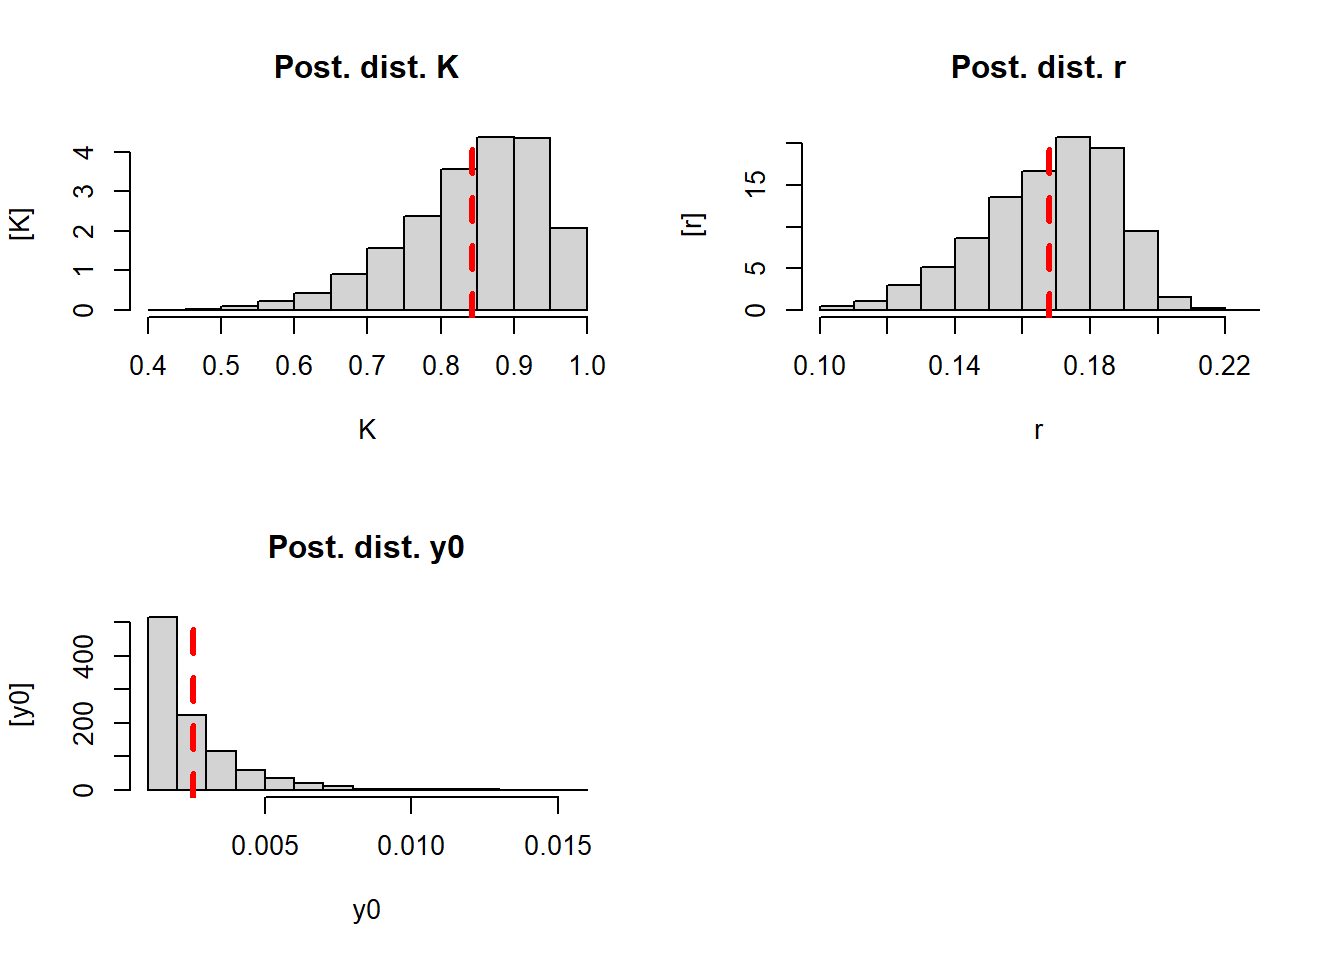
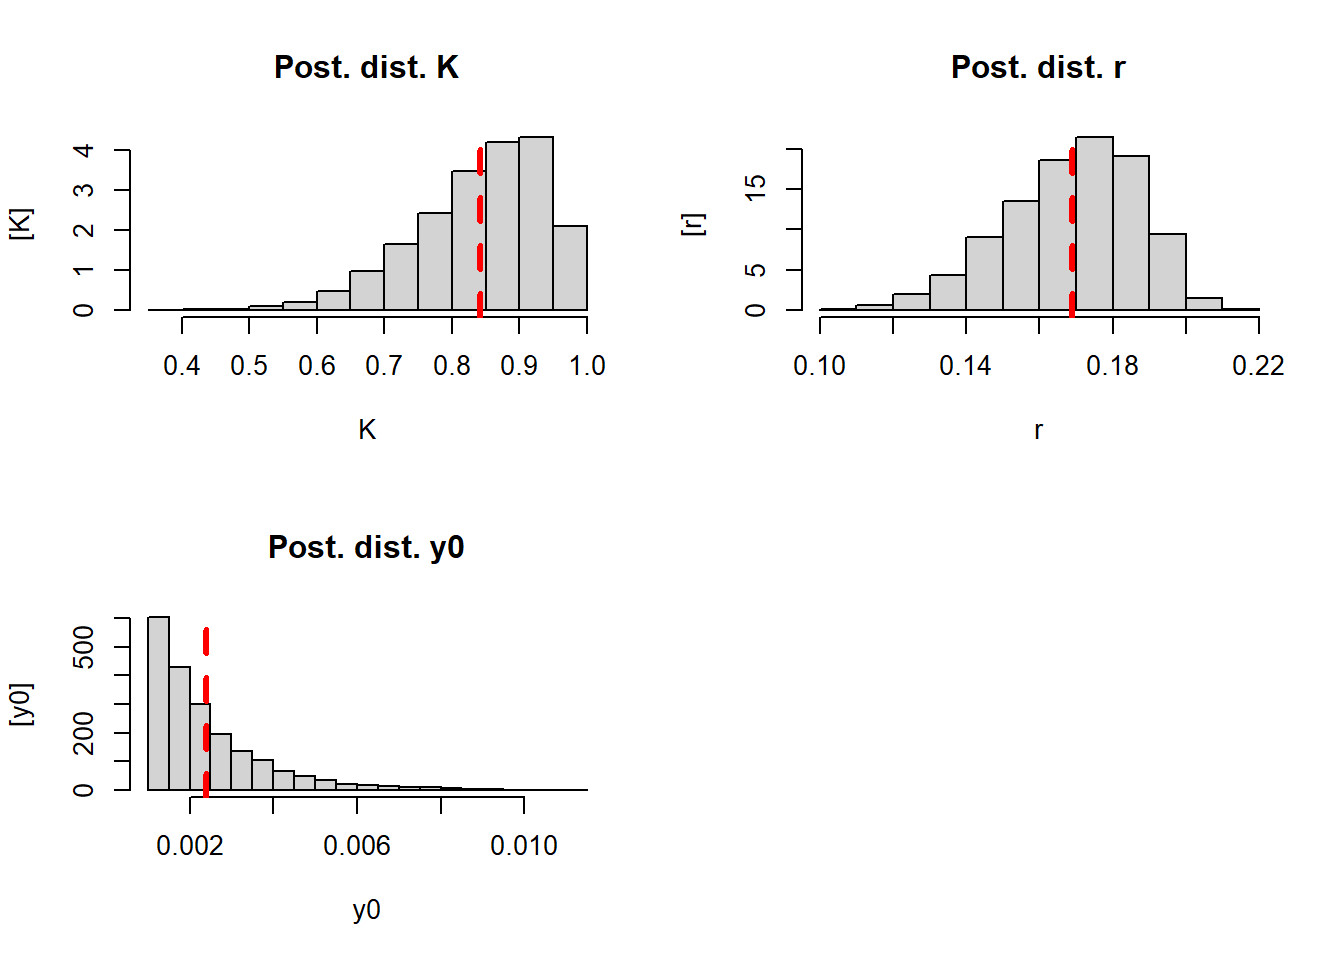
Render update 3 - Index adjustment

diff --git a/docs/index.html b/docs/index.html
@@ -147,10 +147,7 @@ code span.wa { color: #60a0b0; font-weight: bold; font-style: italic; } /* Warni
 <li><a href="./">Nonlinear Models for the Plant Sciences</a></li>
 
 <li class="divider"></li>
-<li class="chapter" data-level="" data-path="index.html"><a href="index.html"><i class="fa fa-check"></i>About</a>
-<ul>
-<li class="chapter" data-level="" data-path="index.html"><a href="index.html#motivation"><i class="fa fa-check"></i>Motivation</a></li>
-</ul></li>
+<li class="chapter" data-level="" data-path="index.html"><a href="index.html"><i class="fa fa-check"></i>About</a></li>
 <li class="chapter" data-level="" data-path="welcome-to-day-1.html"><a href="welcome-to-day-1.html"><i class="fa fa-check"></i>Welcome to day 1!</a>
 <ul>
 <li class="chapter" data-level="" data-path="welcome-to-day-1.html"><a href="welcome-to-day-1.html#linear-models"><i class="fa fa-check"></i>Linear models</a>
@@ -211,11 +208,9 @@ code span.wa { color: #60a0b0; font-weight: bold; font-style: italic; } /* Warni
 <div id="about" class="section level1 hasAnchor">
 <h1>About<a href="index.html#about" class="anchor-section" aria-label="Anchor link to header"></a></h1>
 <p>This material is the base for the workshop <strong>Nonlinear Models for the Plant Sciences</strong> taught at Kansas State University on the Spring of 2026. This workshop was develop as a collaboration from the Department of Statistics, Department of Plant Pathology and the Institute for Digital Agriculture &amp; Advanced Analytics (ID3A) as part of the <a href="https://www.k-state.edu/engagement/innovation-and-partnerships/interdisciplinary-institutes/digital-ag-advanced-analytics/about/events.html">Advanced Analytics Workshops</a> series.</p>
-<div id="motivation" class="section level2 hasAnchor">
-<h2>Motivation<a href="index.html#motivation" class="anchor-section" aria-label="Anchor link to header"></a></h2>
+<p><strong>Motivation:</strong></p>
 <p>Non-linear models are widely used in plant sciences. Just like linear models, non-linear models can be fitted to data to enable statistical inference, which is required for scientific investigations and can aid when making management decisions. For example, logistic disease progression curves are a non-linear model used to understand plant disease epidemics, and statistical estimation and inference are needed to connect field data to management decisions (e.g., when to spray fungicide). “Non-Linear Models for the Plant Sciences” is designed to help you develop an understanding of non-linear models and how they fit data using common statistical techniques such as maximum likelihood estimation and Bayesian estimation. This workshop is co-hosted by the Departments of Statistics and Plant Pathology.</p>
 
-</div>
 </div>
             </section>
 

diff --git a/docs/welcome-to-day-3.html b/docs/welcome-to-day-3.html
@@ -147,10 +147,7 @@ code span.wa { color: #60a0b0; font-weight: bold; font-style: italic; } /* Warni
 <li><a href="./">Nonlinear Models for the Plant Sciences</a></li>
 
 <li class="divider"></li>
-<li class="chapter" data-level="" data-path="index.html"><a href="index.html"><i class="fa fa-check"></i>About</a>
-<ul>
-<li class="chapter" data-level="" data-path="index.html"><a href="index.html#motivation"><i class="fa fa-check"></i>Motivation</a></li>
-</ul></li>
+<li class="chapter" data-level="" data-path="index.html"><a href="index.html"><i class="fa fa-check"></i>About</a></li>
 <li class="chapter" data-level="" data-path="welcome-to-day-1.html"><a href="welcome-to-day-1.html"><i class="fa fa-check"></i>Welcome to day 1!</a>
 <ul>
 <li class="chapter" data-level="" data-path="welcome-to-day-1.html"><a href="welcome-to-day-1.html#linear-models"><i class="fa fa-check"></i>Linear models</a>
@@ -755,22 +752,22 @@ Min. Assump.
 Bayesian
 </td>
 <td style="text-align:center;">
-0.0249
+0.0258
 </td>
 <td style="text-align:center;">
-6.38
+6.6
 </td>
 <td style="text-align:center;">
-0.4071
+0.4110
 </td>
 <td style="text-align:center;">
-41.76
+42.16
 </td>
 <td style="text-align:center;">
-0.5533
+0.5396
 </td>
 <td style="text-align:center;">
-57.9
+56.46
 </td>
 </tr>
 </tbody>
@@ -858,13 +855,13 @@ Bayesian
 K
 </td>
 <td style="text-align:center;">
-0.8369361
+0.8401954
 </td>
 <td style="text-align:center;">
-0.6205442
+0.6282688
 </td>
 <td style="text-align:center;">
-0.9767128
+0.9758123
 </td>
 </tr>
 <tr>
@@ -875,13 +872,13 @@ Bayesian
 r
 </td>
 <td style="text-align:center;">
-0.1246368
+0.1252901
 </td>
 <td style="text-align:center;">
-0.1028271
+0.1039173
 </td>
 <td style="text-align:center;">
-0.1435962
+0.1434878
 </td>
 </tr>
 <tr>
@@ -892,13 +889,13 @@ Bayesian
 y0
 </td>
 <td style="text-align:center;">
-0.0019282
+0.0018510
 </td>
 <td style="text-align:center;">
-0.0010180
+0.0010181
 </td>
 <td style="text-align:center;">
-0.0044278
+0.0040522
 </td>
 </tr>
 </tbody>

diff --git a/docs/welcome-to-day-1.html b/docs/welcome-to-day-1.html
@@ -147,10 +147,7 @@ code span.wa { color: #60a0b0; font-weight: bold; font-style: italic; } /* Warni
 <li><a href="./">Nonlinear Models for the Plant Sciences</a></li>
 
 <li class="divider"></li>
-<li class="chapter" data-level="" data-path="index.html"><a href="index.html"><i class="fa fa-check"></i>About</a>
-<ul>
-<li class="chapter" data-level="" data-path="index.html"><a href="index.html#motivation"><i class="fa fa-check"></i>Motivation</a></li>
-</ul></li>
+<li class="chapter" data-level="" data-path="index.html"><a href="index.html"><i class="fa fa-check"></i>About</a></li>
 <li class="chapter" data-level="" data-path="welcome-to-day-1.html"><a href="welcome-to-day-1.html"><i class="fa fa-check"></i>Welcome to day 1!</a>
 <ul>
 <li class="chapter" data-level="" data-path="welcome-to-day-1.html"><a href="welcome-to-day-1.html#linear-models"><i class="fa fa-check"></i>Linear models</a>
@@ -635,19 +632,19 @@ ML
 Bay
 </td>
 <td style="text-align:center;">
--80.33
+-78.34
 </td>
 <td style="text-align:center;">
-1.38
+1.35
 </td>
 <td style="text-align:center;">
-58.27
+58.20
 </td>
 <td style="text-align:center;">
 52.34
 </td>
 <td style="text-align:center;">
-63.74
+63.63
 </td>
 </tr>
 </tbody>

diff --git a/docs/404.html b/docs/404.html
@@ -147,10 +147,7 @@ code span.wa { color: #60a0b0; font-weight: bold; font-style: italic; } /* Warni
 <li><a href="./">Nonlinear Models for the Plant Sciences</a></li>
 
 <li class="divider"></li>
-<li class="chapter" data-level="" data-path="index.html"><a href="index.html"><i class="fa fa-check"></i>About</a>
-<ul>
-<li class="chapter" data-level="" data-path="index.html"><a href="index.html#motivation"><i class="fa fa-check"></i>Motivation</a></li>
-</ul></li>
+<li class="chapter" data-level="" data-path="index.html"><a href="index.html"><i class="fa fa-check"></i>About</a></li>
 <li class="chapter" data-level="" data-path="welcome-to-day-1.html"><a href="welcome-to-day-1.html"><i class="fa fa-check"></i>Welcome to day 1!</a>
 <ul>
 <li class="chapter" data-level="" data-path="welcome-to-day-1.html"><a href="welcome-to-day-1.html#linear-models"><i class="fa fa-check"></i>Linear models</a>

diff --git a/docs/welcome-to-day-2.html b/docs/welcome-to-day-2.html
@@ -147,10 +147,7 @@ code span.wa { color: #60a0b0; font-weight: bold; font-style: italic; } /* Warni
 <li><a href="./">Nonlinear Models for the Plant Sciences</a></li>
 
 <li class="divider"></li>
-<li class="chapter" data-level="" data-path="index.html"><a href="index.html"><i class="fa fa-check"></i>About</a>
-<ul>
-<li class="chapter" data-level="" data-path="index.html"><a href="index.html#motivation"><i class="fa fa-check"></i>Motivation</a></li>
-</ul></li>
+<li class="chapter" data-level="" data-path="index.html"><a href="index.html"><i class="fa fa-check"></i>About</a></li>
 <li class="chapter" data-level="" data-path="welcome-to-day-1.html"><a href="welcome-to-day-1.html"><i class="fa fa-check"></i>Welcome to day 1!</a>
 <ul>
 <li class="chapter" data-level="" data-path="welcome-to-day-1.html"><a href="welcome-to-day-1.html#linear-models"><i class="fa fa-check"></i>Linear models</a>
